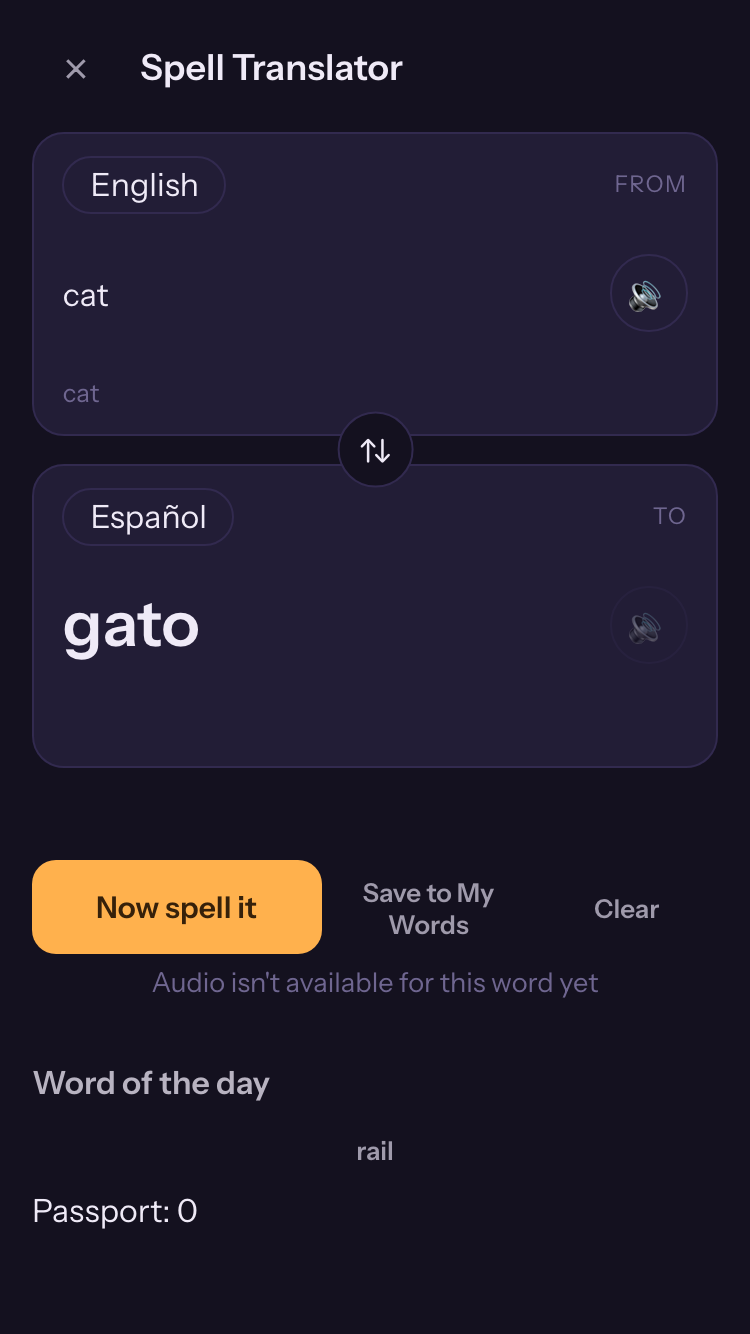
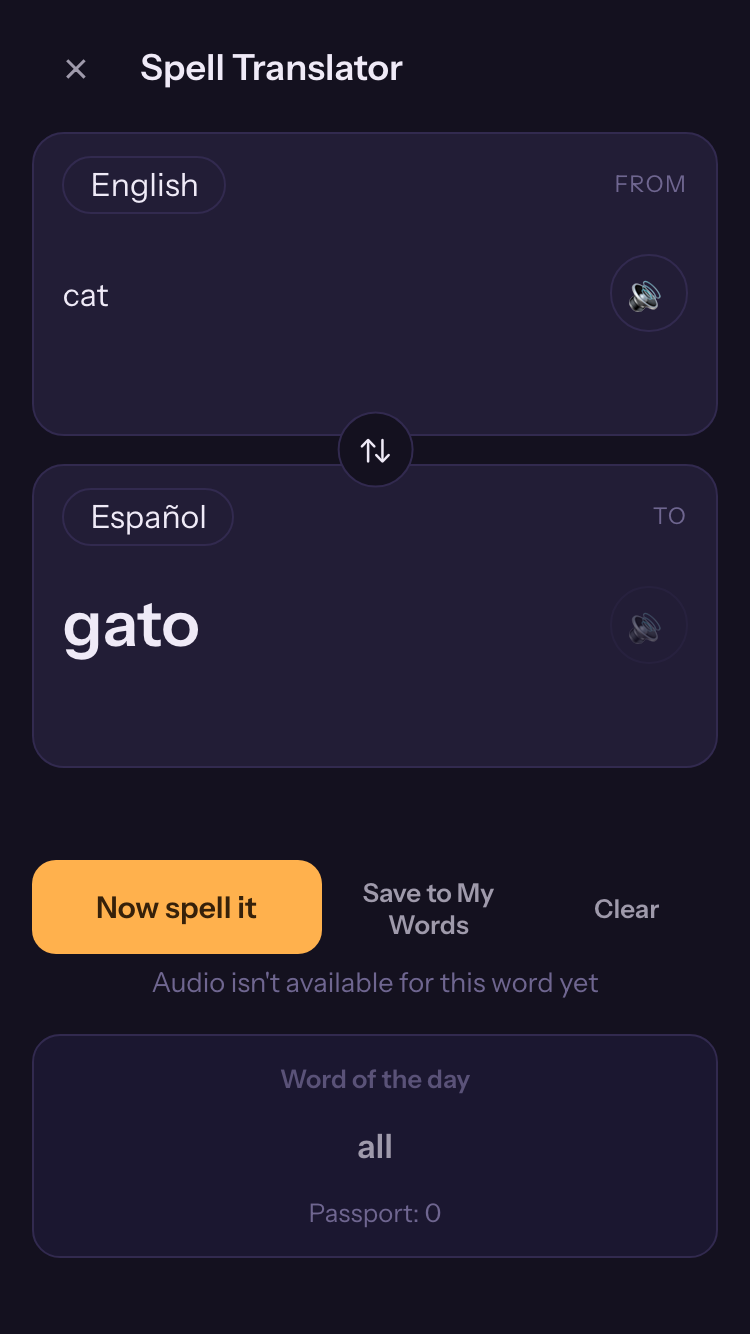
Four of the six review findings, with the scroll bug traced to the hub
Eric, 2026-09-15: start the fix list. Four are here; the two that need his words
(Spell it's decline, the hub tile subtitle) are not.

The sense line no longer repeats the word. English is its own pivot, so an
English source's gloss IS the word, and the screen printed "cat" under "cat".
One pure rule decides it, so the line is dropped only when it would repeat and
every other source keeps its sense. Proven in both directions in the browser:
empty under English, present after a swap to Spanish.

Word of the day and Passport sit in a card. They were a bare word and a count
below the action row. They now wear the same panel, border and radius as the two
language cards, centred, and the test that pins the action row still holds, so
nothing moved above them.

The scroll jump was the hub, not Translate. A probe settled it: with the hub
open, the wheel scrolled the PAGE behind it -- home went from 0 to 1394 while
the hub itself never moved -- which is why closing landed the player at the
bottom of home. Translate's own open and close leave the page exactly where it
was. While the hub is open the body is locked, so the hub owns scrolling, and
the lock is released on close. The regression test uses a short viewport so the
hub really overflows, then proves the hub scrolls, the page does not, and
closing lands where the player left it.

The front door's fields and the empty chains line. The email and password fields
[…]

Changed region(s): [[0.0307, 0.7991, 0.644, 0.922], [0.0307, 0.8913, 0.276, 0.922], [0.092, 0.2766, 0.1227, 0.3073]]

diff --git a/dist-test-web/index.html b/dist-test-web/index.html
@@ -1074,6 +1074,7 @@
   .board ol{list-style:none;margin:14px 0 4px}
   .board li{display:grid;grid-template-columns:24px 1fr auto auto;align-items:center;gap:12px;padding:9px 0;border-top:1px solid rgba(255,255,255,.04);font-size:14px}
   .board li:first-child{border-top:none}
+  .board li.empty{display:block;color:var(--muted-2)}
   .board .rank{font-family:var(--mono);color:var(--muted-2);font-size:13px}
   .board li.top .rank{color:var(--amber)}
   .board .who{font-weight:600;letter-spacing:.02em;overflow:hidden;text-overflow:ellipsis;white-space:nowrap;min-width:0}
@@ -1159,7 +1160,12 @@
   .tr-actions .btn{flex:1.4}
   .tr-actions .ghost{flex:1}
   .tr-note{min-height:1.5em;max-width:480px;margin:6px auto 0;text-align:center;font-size:.85em;color:var(--muted-2)}
-  .tr-extras{max-width:480px;margin:14px auto 0;display:flex;flex-direction:column;gap:6px}
+  .tr-extras{max-width:480px;margin:14px auto 0;display:flex;flex-direction:column;align-items:center;gap:8px}
+  .tr-extras:not(:empty){background:var(--panel-2);border:1px solid var(--edge);border-radius:14px;padding:14px}
+  .tr-extras .rep-head{margin:0;color:var(--muted-2);font-size:.8em;text-align:center}
+  .tr-extras .tr-daily{width:auto;padding:8px 18px;border-radius:12px;font-size:1.05em}
+  .tr-extras .tr-passport{color:var(--muted-2);font-size:.8em}
+  .tr-extras .tr-pair{color:var(--muted-2);font-size:.8em;text-align:center}
   .scrim{position:fixed;inset:0;background:rgba(10,8,18,.72);backdrop-filter:blur(4px);display:none;place-items:center;padding:20px;z-index:30;overflow:auto}
   .scrim.show{display:grid}
 
@@ -1174,6 +1180,9 @@
      #playHub rather than all .modal: other dialogs have absolutely-positioned
      children (colour swatches, switches) whose containing block must not move. */
   #playHub .modal{position:relative}
+  /* While the hub is open it owns scrolling; the page behind must not move. */
+  body.hub-open{overflow:hidden}
+  #playHub{overscroll-behavior:contain}
   .hub-x{position:absolute;top:10px;inset-inline-end:12px}
   /* Empty hub: never render a blank box. Reachable today — e.g. a Preview
      language on web filters out every mode. */
@@ -1249,7 +1258,9 @@
   .dob-row select{flex:1;min-width:0;text-align:center}
   .dob-err{min-height:18px;margin-bottom:10px;color:var(--coral);font-size:12.5px;font-weight:600}
   /* The Climb — accounts + leaderboard */
+  .fd-screen input[type=email],.fd-screen input[type=password],
   .modal input[type=email],.modal input[type=password]{width:100%;background:var(--panel-2);border:1.5px solid var(--edge);border-radius:12px;padding:13px;color:var(--ink);font-family:var(--body);font-size:16px;margin-bottom:10px}
+  .fd-screen input[type=email]:focus,.fd-screen input[type=password]:focus,
   .modal input[type=email]:focus,.modal input[type=password]:focus{outline:none;border-color:var(--amber)}
   .climb-tabs{display:flex;gap:6px;justify-content:center;margin-bottom:12px;flex-wrap:wrap}
   .climb-tab{font-size:12px;padding:7px 12px}

diff --git a/index.html b/index.html
@@ -1275,6 +1275,7 @@
   .board ol{list-style:none;margin:14px 0 4px}
   .board li{display:grid;grid-template-columns:24px 1fr auto auto;align-items:center;gap:12px;padding:9px 0;border-top:1px solid rgba(255,255,255,.04);font-size:14px}
   .board li:first-child{border-top:none}
+  .board li.empty{display:block;color:var(--muted-2)}
   .board .rank{font-family:var(--mono);color:var(--muted-2);font-size:13px}
   .board li.top .rank{color:var(--amber)}
   .board .who{font-weight:600;letter-spacing:.02em;overflow:hidden;text-overflow:ellipsis;white-space:nowrap;min-width:0}
@@ -1360,7 +1361,12 @@
   .tr-actions .btn{flex:1.4}
   .tr-actions .ghost{flex:1}
   .tr-note{min-height:1.5em;max-width:480px;margin:6px auto 0;text-align:center;font-size:.85em;color:var(--muted-2)}
-  .tr-extras{max-width:480px;margin:14px auto 0;display:flex;flex-direction:column;gap:6px}
+  .tr-extras{max-width:480px;margin:14px auto 0;display:flex;flex-direction:column;align-items:center;gap:8px}
+  .tr-extras:not(:empty){background:var(--panel-2);border:1px solid var(--edge);border-radius:14px;padding:14px}
+  .tr-extras .rep-head{margin:0;color:var(--muted-2);font-size:.8em;text-align:center}
+  .tr-extras .tr-daily{width:auto;padding:8px 18px;border-radius:12px;font-size:1.05em}
+  .tr-extras .tr-passport{color:var(--muted-2);font-size:.8em}
+  .tr-extras .tr-pair{color:var(--muted-2);font-size:.8em;text-align:center}
   .scrim{position:fixed;inset:0;background:rgba(10,8,18,.72);backdrop-filter:blur(4px);display:none;place-items:center;padding:20px;z-index:30;overflow:auto}
   .scrim.show{display:grid}
 
@@ -1375,6 +1381,9 @@
      #playHub rather than all .modal: other dialogs have absolutely-positioned
      children (colour swatches, switches) whose containing block must not move. */
   #playHub .modal{position:relative}
+  /* While the hub is open it owns scrolling; the page behind must not move. */
+  body.hub-open{overflow:hidden}
+  #playHub{overscroll-behavior:contain}
   .hub-x{position:absolute;top:10px;inset-inline-end:12px}
   /* Empty hub: never render a blank box. Reachable today — e.g. a Preview
      language on web filters out every mode. */
@@ -1450,7 +1459,9 @@
   .dob-row select{flex:1;min-width:0;text-align:center}
   .dob-err{min-height:18px;margin-bottom:10px;color:var(--coral);font-size:12.5px;font-weight:600}
   /* The Climb — accounts + leaderboard */
+  .fd-screen input[type=email],.fd-screen input[type=password],
   .modal input[type=email],.modal input[type=password]{width:100%;background:var(--panel-2);border:1.5px solid var(--edge);border-radius:12px;padding:13px;color:var(--ink);font-family:var(--body);font-size:16px;margin-bottom:10px}
+  .fd-screen input[type=email]:focus,.fd-screen input[type=password]:focus,
   .modal input[type=email]:focus,.modal input[type=password]:focus{outline:none;border-color:var(--amber)}
   .climb-tabs{display:flex;gap:6px;justify-content:center;margin-bottom:12px;flex-wrap:wrap}
   .climb-tab{font-size:12px;padding:7px 12px}

diff --git a/src/translate_screen.rs b/src/translate_screen.rs
@@ -174,6 +174,17 @@ pub fn senses(source: &str, entry: &str) -> Vec<String> {
     crate::translate::source_rows(source).into_iter().filter(|(e, _)| e == entry).map(|(_, c)| c).collect()
 }
 
+/// The sense line under the source word, empty when it would only repeat the
+/// word. English is its own pivot, so an English source's sense IS the word --
+/// "cat" under "cat" tells a player nothing. Every other source keeps its gloss.
+pub fn sense_line(shown: &str, concept: Option<&str>) -> String {
+    let c = concept.unwrap_or("");
+    if normalize(c) == normalize(shown) {
+        return String::new();
+    }
+    c.to_string()
+}
+
 /// D9 (signed): the senses to show, and whether a "more" control is needed.
 pub fn visible_senses(all: &[String], expanded: bool) -> (Vec<String>, bool) {
     if expanded || all.len() <= SENSES_INLINE {
@@ -298,6 +309,18 @@ pub fn seam_gap(source: &str, have: &str, lack: &str) -> Option<String> {
 
 #[cfg(test)]
 mod tests {
+    use super::*;
+
+    /// An English source's gloss is the English word, so printing it under the
+    /// word says nothing twice. Every other source keeps its sense.
+    #[test]
+    fn a_sense_that_only_repeats_the_word_is_dropped() {
+        assert_eq!(sense_line("cat", Some("cat")), "");
+        assert_eq!(sense_line("Cat", Some("cat")), "", "case is not a difference");
+        assert_eq!(sense_line("gato", Some("cat")), "cat");
+        assert_eq!(sense_line("cat", None), "");
+    }
+
     use super::*;
     use crate::translate::seam_set_audited;
 

diff --git a/src/play_hub.rs b/src/play_hub.rs
@@ -231,13 +231,27 @@ pub fn reflect(app: &App) {
     }
 }
 
+/// Lock or release the page behind the hub. `body` carries the class because the
+/// hub's own element cannot stop the page from scrolling under it.
+fn body_scroll_lock(on: bool) {
+    if let Some(body) = dom::doc().body() {
+        let _ = body.class_list().toggle_with_force("hub-open", on);
+    }
+}
+
 pub fn open(app: &App) {
     reflect(app);
     dom::add_class("playHub", "show");
+    // The hub is taller than a phone screen, and without this the wheel/drag
+    // went to the PAGE behind it: the hub stayed put while home scrolled to its
+    // bottom, which is where the player landed after closing. Locking the body
+    // makes the hub itself the scroller for as long as it is open.
+    body_scroll_lock(true);
 }
 
 pub fn close() {
     dom::remove_class("playHub", "show");
+    body_scroll_lock(false);
 }
 
 /// Wire the hub's entry + dismiss once at startup.

diff --git a/src/translate_ui.rs b/src/translate_ui.rs
@@ -121,8 +121,10 @@ fn render(app: &App) {
     );
     set_card_lang("trSrcCard", "trSrcInput", &pair.source);
     set_card_lang("trTgtCard", "trTgtWord", &pair.target);
-    // F3: the sense the player asked for stays visible under their word.
-    dom::set_text("trSrcSub", pair.concept.as_deref().unwrap_or(""));
+    // F3: the sense the player asked for stays visible under their word --
+    // unless it would only repeat that word (English is its own pivot).
+    let src_shown = pair.source_entry.as_deref().map(crate::translate::display_word).unwrap_or_default();
+    dom::set_text("trSrcSub", &rules::sense_line(&src_shown, pair.concept.as_deref()));
     render_target(&pair);
     let empty = pair.source_entry.is_none() && pair.target_entry.is_none();
     let _ = dom::el("trSwap").set_attribute("aria-disabled", if empty { "true" } else { "false" });

diff --git a/tests/e2e/TEST-REPORT-app.md b/tests/e2e/TEST-REPORT-app.md
@@ -1,12 +1,14 @@
 # TEST-REPORT — Web E2E (app build)
 
-**121/121 passed** across 26 areas.
+**124/124 passed** across 26 areas.
 
-## playhub — 10/10
+## playhub — 12/12
 - ✅ hub: opens from the meta corner and renders registry tiles
 - ✅ hub: word_stories is never rendered (F8 hard gate)
 - ✅ hub: coming_soon renders as a non-tappable teaser
+- ✅ home: the empty chains line reads as a sentence, not a column
 - ✅ hub: tiles are localized with no new copy (es)
+- ✅ hub: scrolling the hub never scrolls the page behind it
 - ✅ hub: A2.3 — Full-only gating (UNPROVABLE while no live mode is Full-tier)
 - ✅ hub: A2.2 — Little Speller sees only kidSafe tiles, zero upsell
 - ✅ placement: offered once, skip stands, no re-offer
@@ -64,11 +66,12 @@
 - ✅ spell_jr_shows_no_prices
 - ✅ spellit_guide_shows_once_and_can_be_replayed
 
-## front-door — 7/7
+## front-door — 8/8
 - ✅ front_door_no_credential_field_before_a_verdict
 - ✅ front_door_opens_for_13_plus_and_can_be_walked_past
 - ✅ front_door_never_opens_for_under_13
 - ✅ front_door_never_meets_an_existing_install
+- ✅ front_door_fields_wear_the_app_styling
 - ✅ front_door_password_checklist_is_live
 - ✅ front_door_is_the_only_sign_in_surface
 - ✅ front_door_refuses_a_locked_junior_even_programmatically
